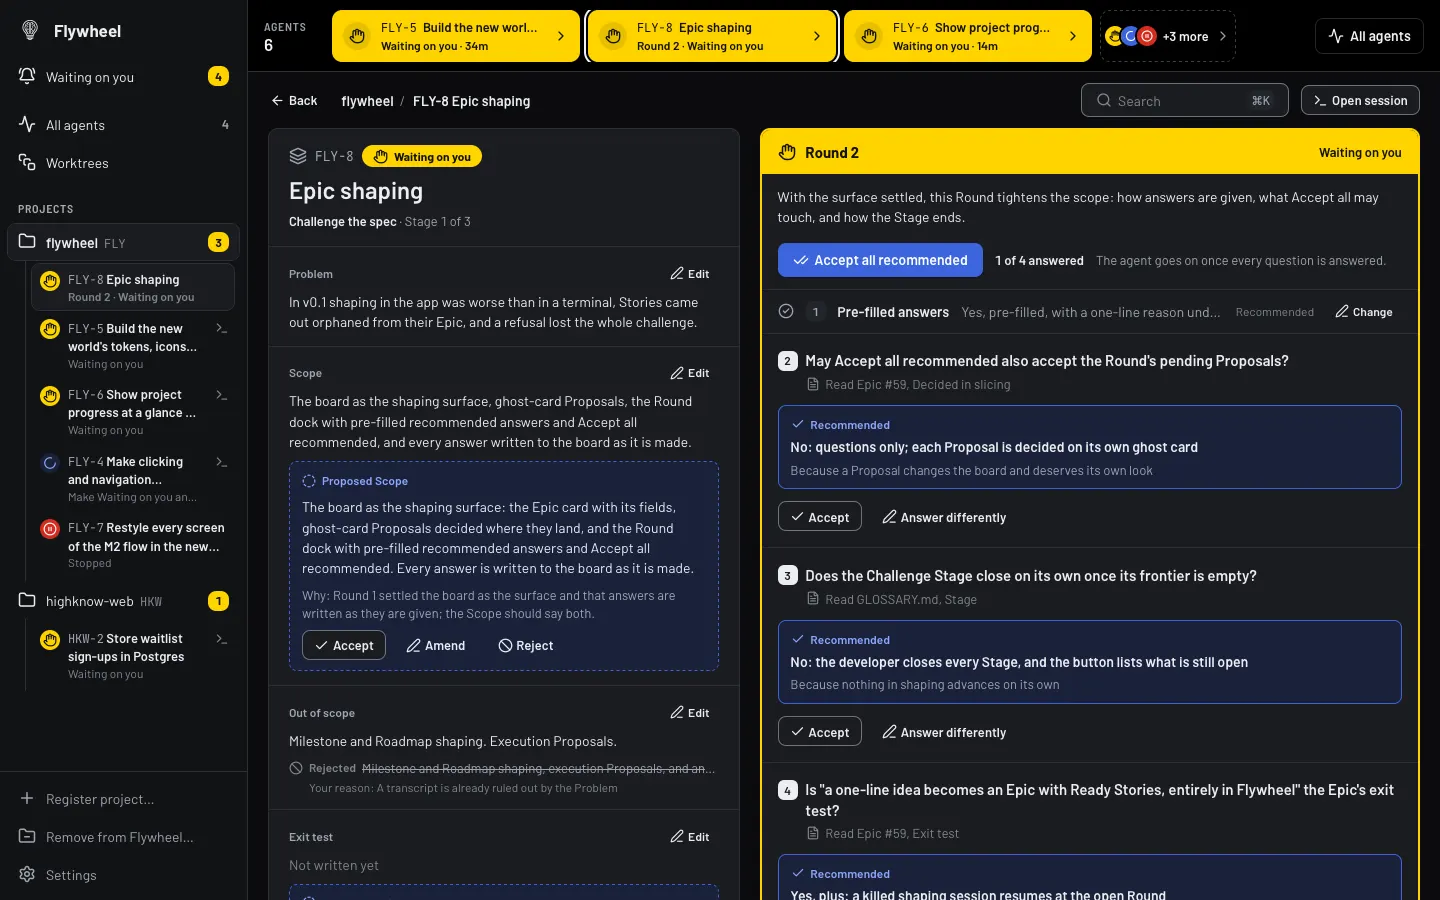
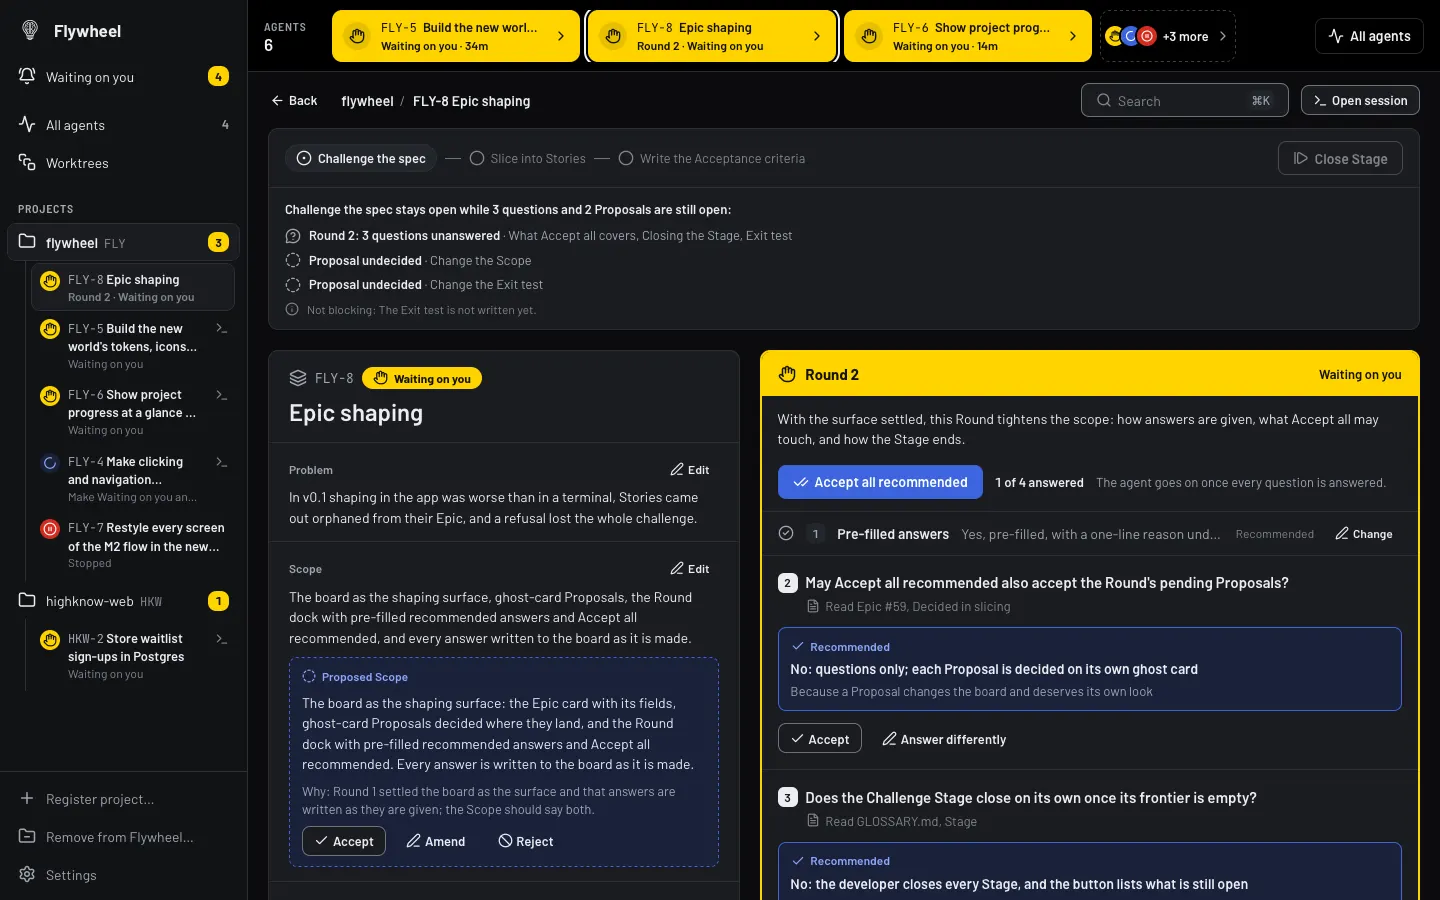
chore: rebase onto #141: the Stage bar's screens become 33-37 after #124's 31 and 32, every shaping screen re-shot, and a Stage with no session names Continue shaping

diff --git a/packages/desktop/src/shaping/RoundDock.tsx b/packages/desktop/src/shaping/RoundDock.tsx
@@ -120,7 +120,9 @@ export function RoundDock({
           <p className="m-0 max-w-[60ch] text-body text-muted-foreground">
             {sessionLive
               ? "The agent is reading the Epic and the code it touches. Its first Round lands here."
-              : "Shape this Epic to start a shaping session. The agent's first Round lands here."}
+              : earlier.length > 0
+                ? "No session is working this Stage. Continue shaping starts one; its first Round lands here."
+                : "Shape this Epic to start a shaping session. The agent's first Round lands here."}
           </p>
         </section>
       )}

diff --git a/packages/desktop/src/shaping/__tests__/stage-bar.test.tsx b/packages/desktop/src/shaping/__tests__/stage-bar.test.tsx
@@ -51,7 +51,7 @@ const ANSWERED_ROUND: RoundDto = {
   number: 1,
   note: "This Round settles who the Epic is for.",
   state: "answered",
-  held: false,
+  waitingOnYou: false,
   postedAt: "2026-10-22T09:00:00Z",
   answeredAt: "2026-10-22T09:30:00Z",
   questions: [],

diff --git a/DESIGN.md b/DESIGN.md
@@ -368,7 +368,7 @@ The project's Roadmap at the top of the board (`board/RoadmapStrip.tsx`, #131): 
 ### Round Dock
 The Epic's shaping view (`shaping/EpicShapingView.tsx`, #123) is the Stage bar across the top, then the Epic card beside the dock: from 1280px side by side (card 5 parts, dock 7), below that stacked in reading order: the current Round, the Epic card, then the earlier Rounds (a Sheet, as direction.md first planned, would hide the Epic being shaped behind the questions about it). The Epic card is a title card (`layers`, the key in code face, the state pill, the title at title size) over the four spec fields, each a meta-size label with a ghost Edit and its prose at a 68ch measure ("Not written yet" in meta ink); editing opens a textarea in place with Save (outline) and Cancel. The dock (`shaping/RoundDock.tsx`) is one card per Round, newest first. A Round the session is held on wears the request card's frame: the 2px attention edge and the yellow band (`hand`, "Round n", "Waiting on you"); any other Round has the inset band and a 1px edge. Under the note, a bar that stays on screen while the questions scroll carries the region's one filled action, Accept all recommended (`check-check`), the tabular "n of m answered" and a hint. Each open question (`shaping/QuestionCard.tsx`) reads: the ink number chip inline before the question at row size (the title is kept for the folded line, never set above the question as an eyebrow), the grounding line in meta ink behind `file-text`, then the recommended answer already filled in, a running-tint box with a 1px primary edge, "Recommended" in running ink behind a check, the answer semibold and its "Because" line in secondary ink; then Accept (outline) and Answer differently (ghost), which opens a textarea on the recommendation, with the recommendation and its reason kept above it in running ink, Send answer, Cancel and a ⌘↩ hint. A Round outlives its session (#124): an open Round no live session is held on keeps the inset band, never yellow, and the dock still takes every answer; the band reads "No live session: your answers are kept" with Continue shaping (outline) at its end, or, while a fresh session reads the Rounds before its `round_wait` takes this one over, "The agent is reading your answers and picks this Round up". The shaping view's header then carries no control of its own: the band does, and its Epic card's pill names the same attention as the board's. On the board the Epic card's state pill reads Waiting on you (attention) while a live session is held on a Round, and Shaping Round waiting (neutral, `circle-dashed`) while a Round is open with no live session. An answered question folds to one 44px line: a check, a quiet number chip, the title, the answer in secondary ink, whose answer it was ("Recommended" or "Your answer") in meta ink, and Change (ghost) while the Round is open.
 
-The Stage bar (`shaping/StageBar.tsx`, #126) is one card across both columns. Its top line holds the Epic's three Stages in order, joined by short control-edge rules and kept whole on one line (at narrow widths Close Stage drops to its own line rather than a name truncating): a closed Stage behind `circle-check` in secondary ink, the open one as a neutral chip (inset ground, 1px edge, `circle-dot`, semibold ink), one not started behind `circle` in meta ink; then, at the right, Close Stage (`step-forward`). Under a rule, what keeps the Stage open: "Challenge the spec stays open while 3 questions and 2 Proposals are still open:", then the open Round's unanswered questions on one line (`message-circle-question-mark`, "Round 2: 3 questions unanswered" semibold, their titles in secondary ink) and each undecided Proposal on its own (`circle-dashed`, "Proposal undecided · Change the Scope"). While that list has anything in it, Close Stage is an outline at half strength and `aria-disabled` (still in the tab order, so the keyboard reaches it and hears the list, which is its description); once it is empty, the line says nothing is open and what closing starts, and Close Stage becomes the region's one filled primary: the next action. An empty Problem, Scope or Exit test follows in meta ink behind `info`, "Not blocking: …", never yellow. Close Stage confirms in an AlertDialog ("Close Challenge the spec?", Keep it open, then the filled "Close and start Slice into Stories"), because a closed Stage stays closed. A session that could not start is said in the bar's always-mounted status line, with Shape as the way on, and cleared once a session is live. The Epic's last Stage keeps the button disabled with a line saying closing it makes the Stories Ready, which is not built yet. Each Stage numbers its Rounds from 1, so once a Stage closes its Rounds move below the current one, named with their Stage in secondary ink beside the number ("Round 1 · Challenge the spec"), and the dock waits for the new Stage's first Round ("No Round yet in Slice into Stories").
+The Stage bar (`shaping/StageBar.tsx`, #126) is one card across both columns. Its top line holds the Epic's three Stages in order, joined by short control-edge rules and kept whole on one line (at narrow widths Close Stage drops to its own line rather than a name truncating): a closed Stage behind `circle-check` in secondary ink, the open one as a neutral chip (inset ground, 1px edge, `circle-dot`, semibold ink), one not started behind `circle` in meta ink; then, at the right, Close Stage (`step-forward`). Under a rule, what keeps the Stage open: "Challenge the spec stays open while 3 questions and 2 Proposals are still open:", then the open Round's unanswered questions on one line (`message-circle-question-mark`, "Round 2: 3 questions unanswered" semibold, their titles in secondary ink) and each undecided Proposal on its own (`circle-dashed`, "Proposal undecided · Change the Scope"). While that list has anything in it, Close Stage is an outline at half strength and `aria-disabled` (still in the tab order, so the keyboard reaches it and hears the list, which is its description); once it is empty, the line says nothing is open and what closing starts, and Close Stage becomes the region's one filled primary: the next action. An empty Problem, Scope or Exit test follows in meta ink behind `info`, "Not blocking: …", never yellow. Close Stage confirms in an AlertDialog ("Close Challenge the spec?", Keep it open, then the filled "Close and start Slice into Stories"), because a closed Stage stays closed. A session that could not start is said in the bar's always-mounted status line, with Shape as the way on, and cleared once a session is live. The Epic's last Stage keeps the button disabled with a line saying closing it makes the Stories Ready, which is not built yet. Each Stage numbers its Rounds from 1, so once a Stage closes its Rounds move below the current one, named with their Stage in secondary ink beside the number ("Round 1 · Challenge the spec"), and the dock waits for the new Stage's first Round ("No Round yet in Slice into Stories", naming Continue shaping when no session works the Stage).
 
 A spec change an agent proposes (`shaping/GhostCard.tsx`, #125) is a ghost of the field it would rewrite, drawn under that field's text on the Epic card, never in an inbox: a 1px dashed primary edge on the running tint (the recommended answer's solid edge, made provisional), "Proposed Scope" in running ink behind `circle-dashed`, the agent's whole new text at the field's 68ch measure, its "Why:" line in secondary ink, then Accept (outline), Amend (ghost) and Reject (ghost). Amend opens a textarea on the proposed text with Accept edit (outline), Cancel and a ⌘↩ hint: editing and accepting are one act. Reject opens a one-line "Why not? (optional)" field beside Reject (outline) and Cancel. A rejected spec change is decided, so it loses the dashed edge and shrinks to two plain lines with no ground: `ban`, "Rejected" and the text struck through in secondary ink, then "Your reason: …" in meta ink. Reject always wears `ban`; `x` only ever means Cancel. Amend keeps the agent's "Why:" line above the textarea, and Cancel returns the focus to the button that opened the mode; once decided, the focus lands on the field's Edit. No blue fill and no yellow: a pending Proposal never holds the agent, so it is never Waiting on you.
 
